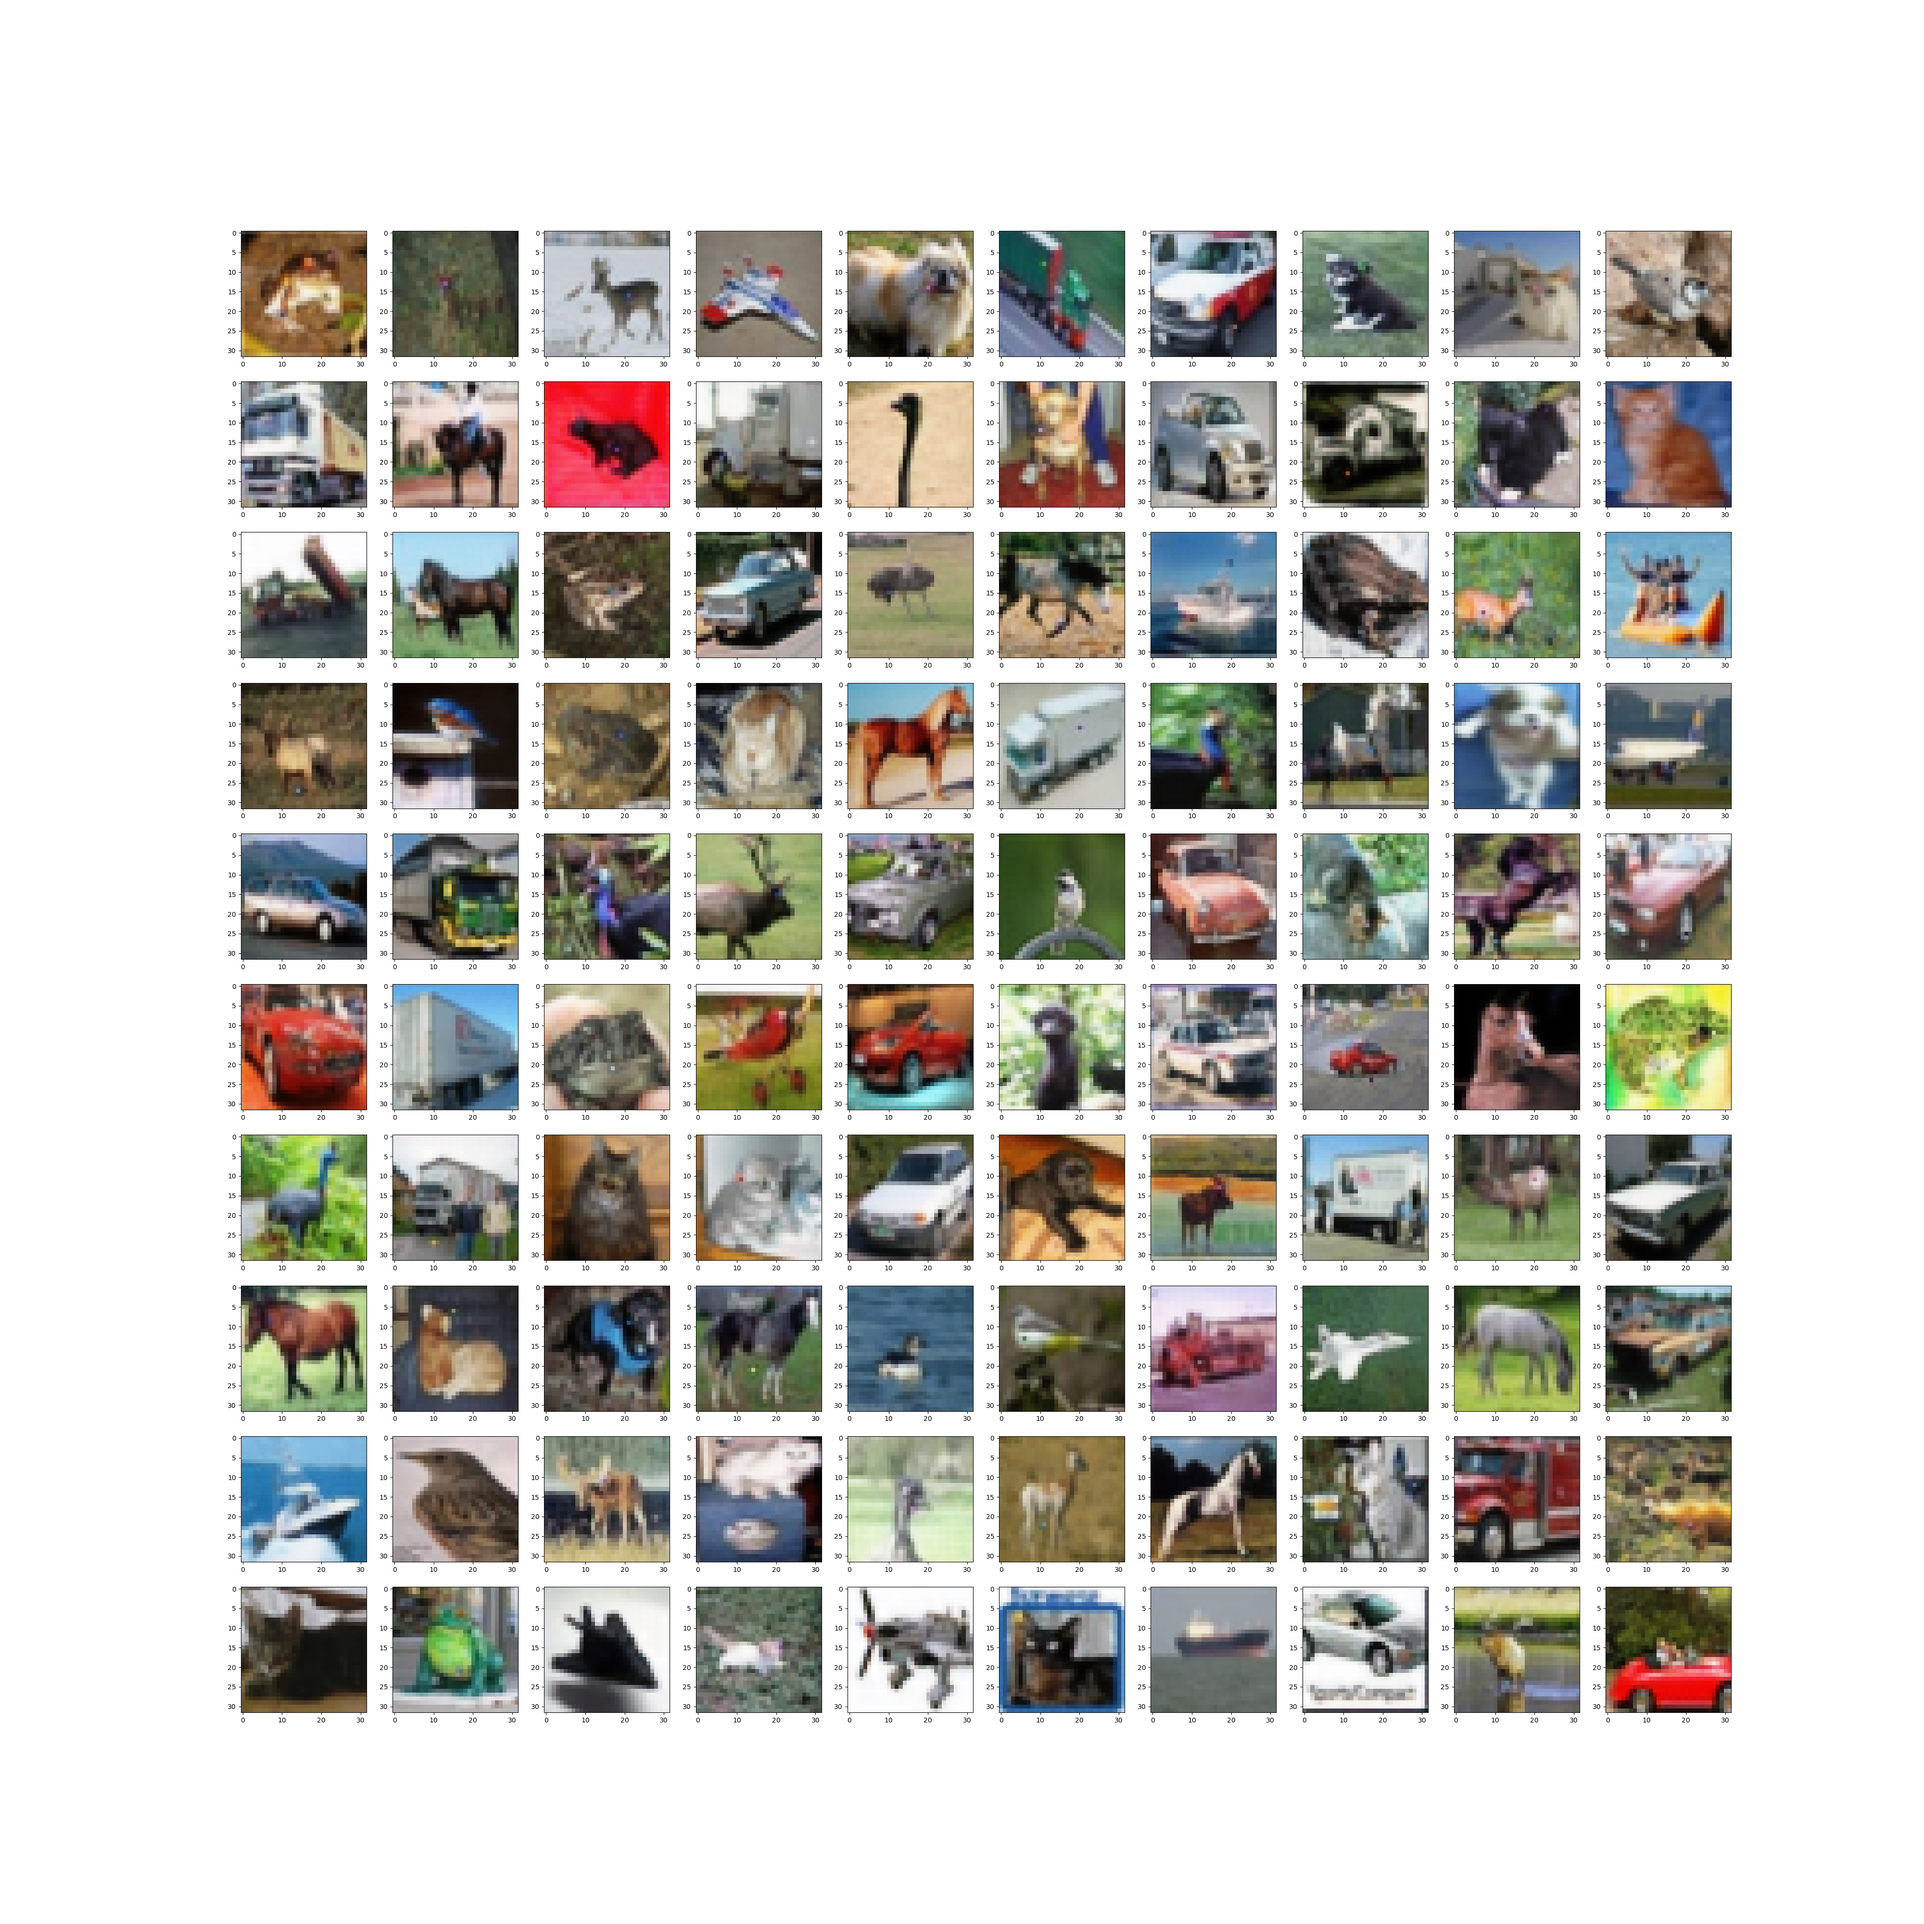
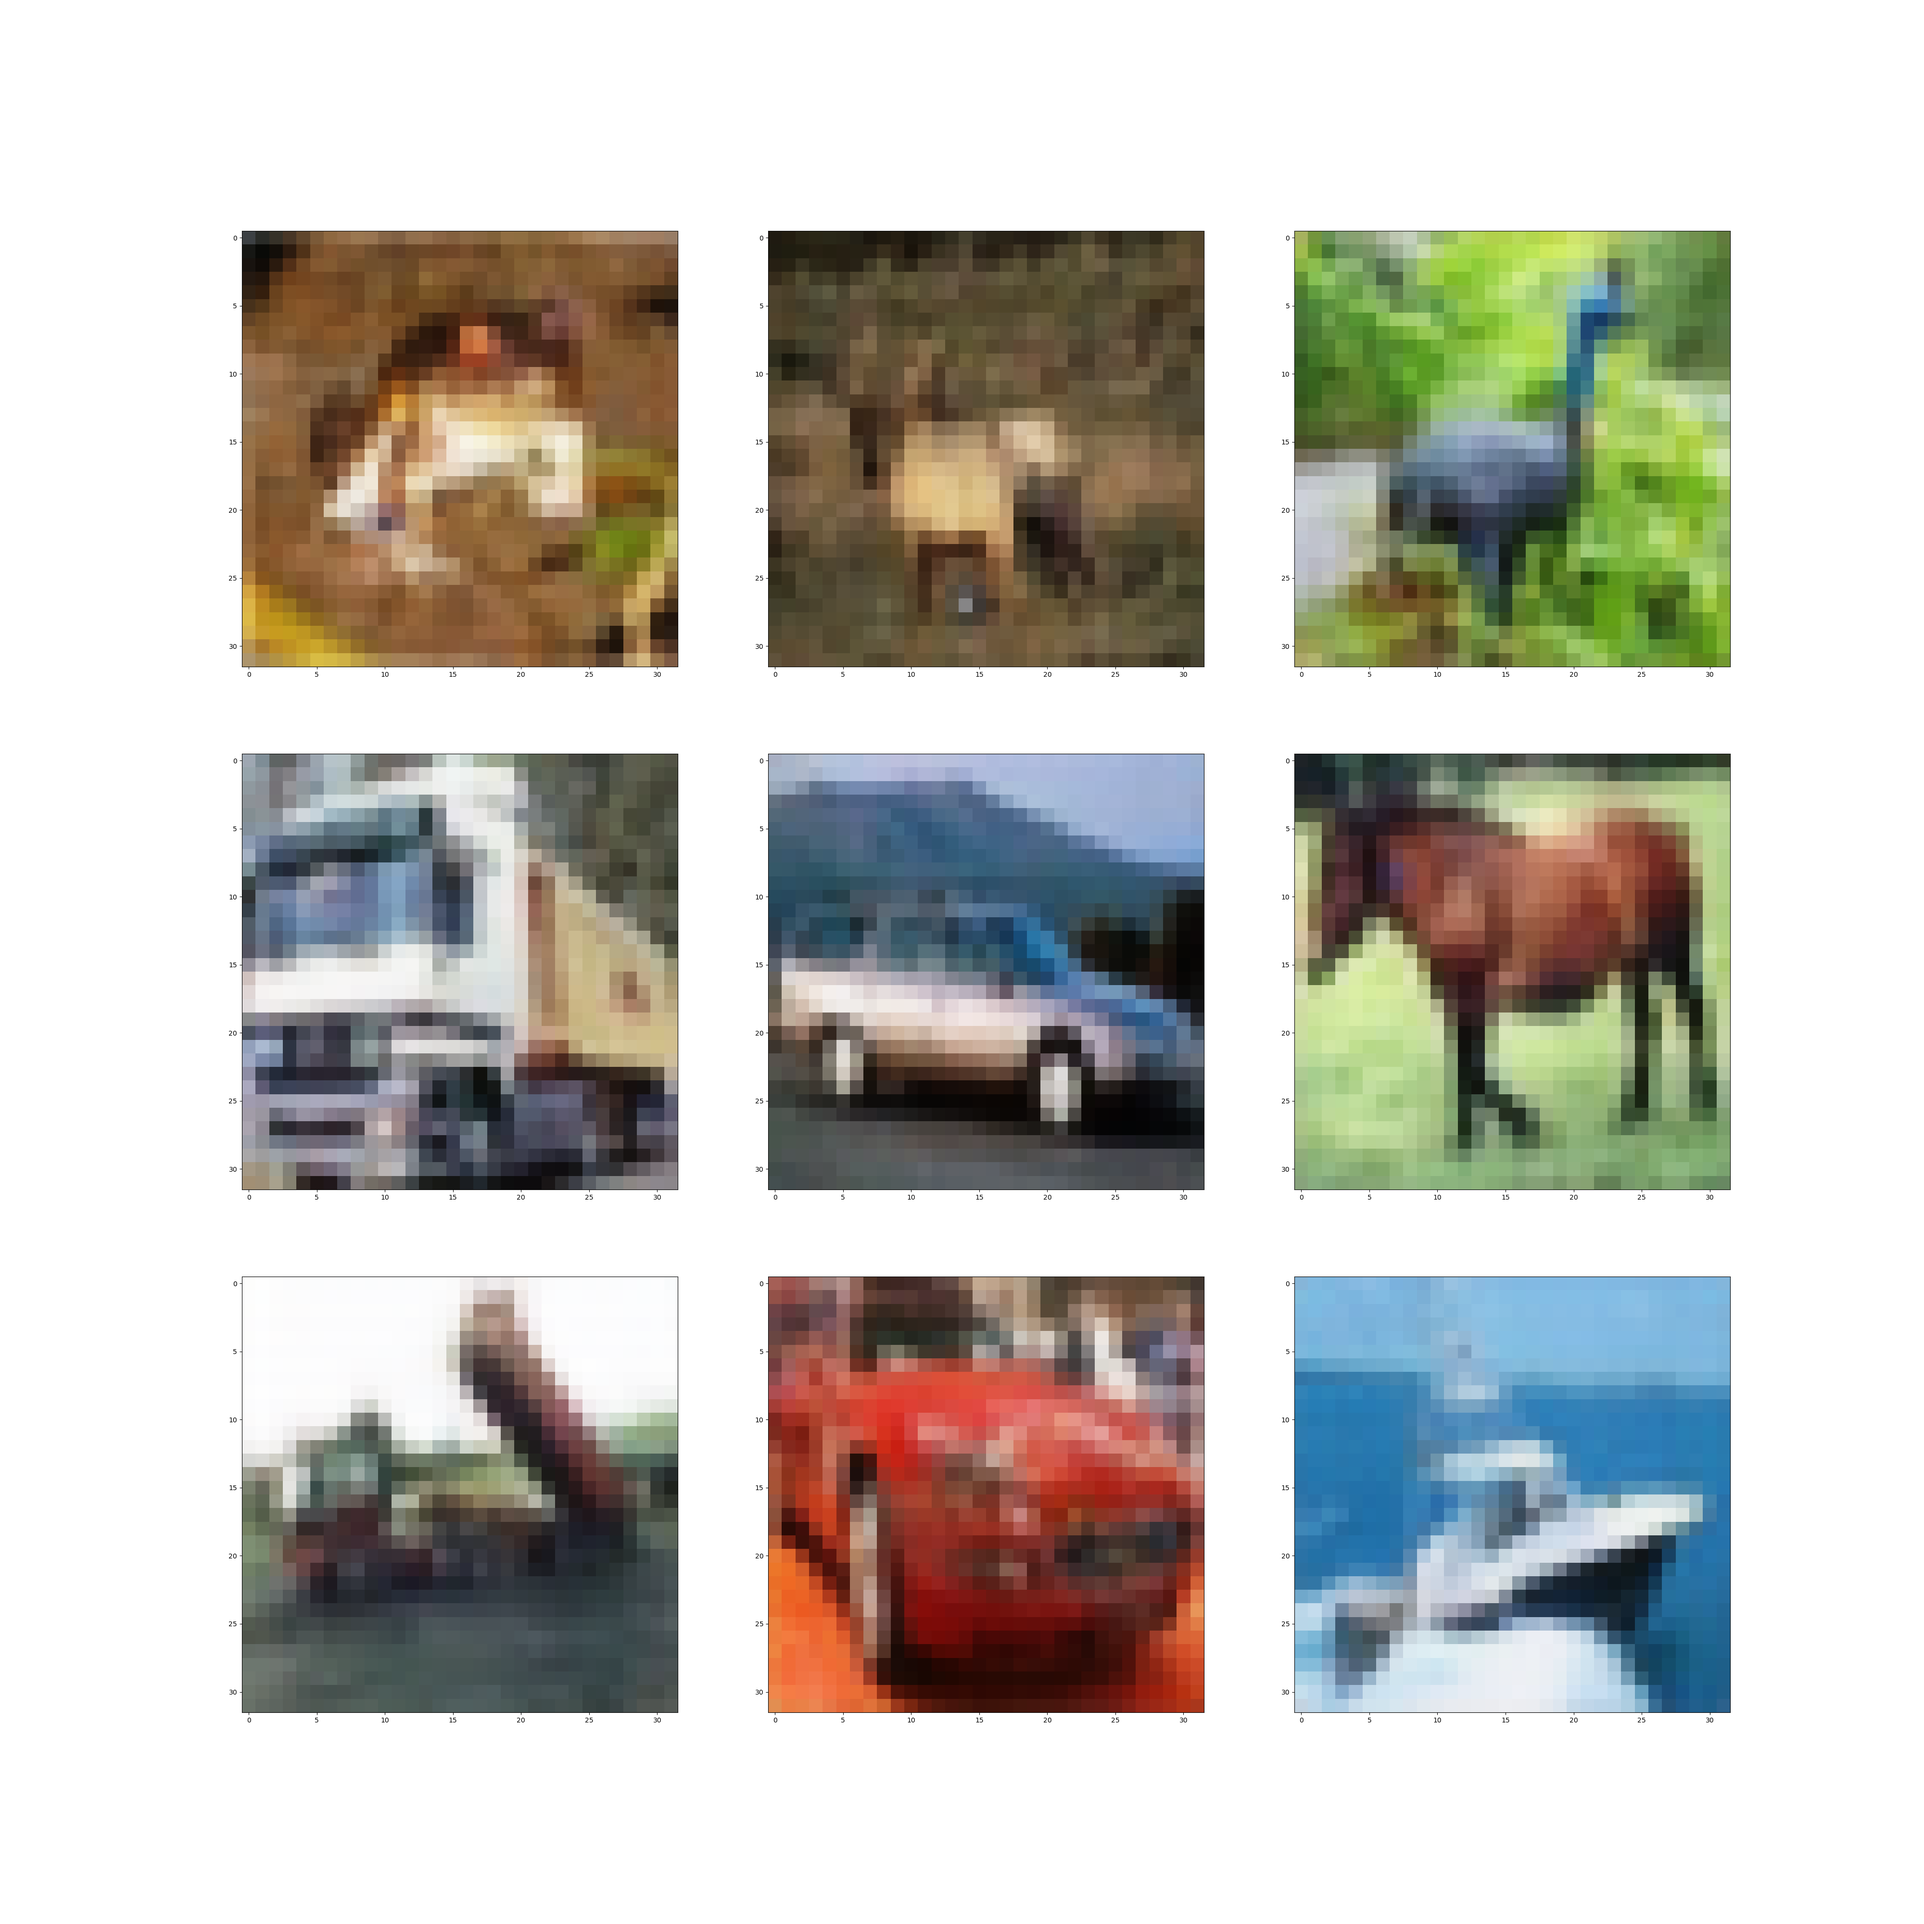
Final project changed num images in grids

diff --git a/COSC_525_FinalProject/counter_adversarial.py b/COSC_525_FinalProject/counter_adversarial.py
@@ -446,7 +446,7 @@ if __name__ == '__main__':
         denoised_unattacked_images = np.asarray(denoised_unattacked_images)
 
     # Save a grid of test images for each of the following image types: attacked, unattacked, and denoised
-    plot_image_grid(X_attacked_test[:100] * 255, save_grid_filename='attacked_imgs.png')
-    plot_image_grid(X_unattacked_test[:100] * 255, save_grid_filename='unattacked_imgs.png')
-    plot_image_grid(denoised_attacked_images[:100] * 255, save_grid_filename='denoised_attacked_imgs_' + architecture + '.png')
-    plot_image_grid(denoised_unattacked_images[:100] * 255, save_grid_filename='denoised_unattacked_imgs_' + architecture + '.png')
+    plot_image_grid(X_attacked_test[:9] * 255, save_grid_filename='attacked_imgs.png')
+    plot_image_grid(X_unattacked_test[:9] * 255, save_grid_filename='unattacked_imgs.png')
+    plot_image_grid(denoised_attacked_images[:9] * 255, save_grid_filename='denoised_attacked_imgs_' + architecture + '.png')
+    plot_image_grid(denoised_unattacked_images[:9] * 255, save_grid_filename='denoised_unattacked_imgs_' + architecture + '.png')
